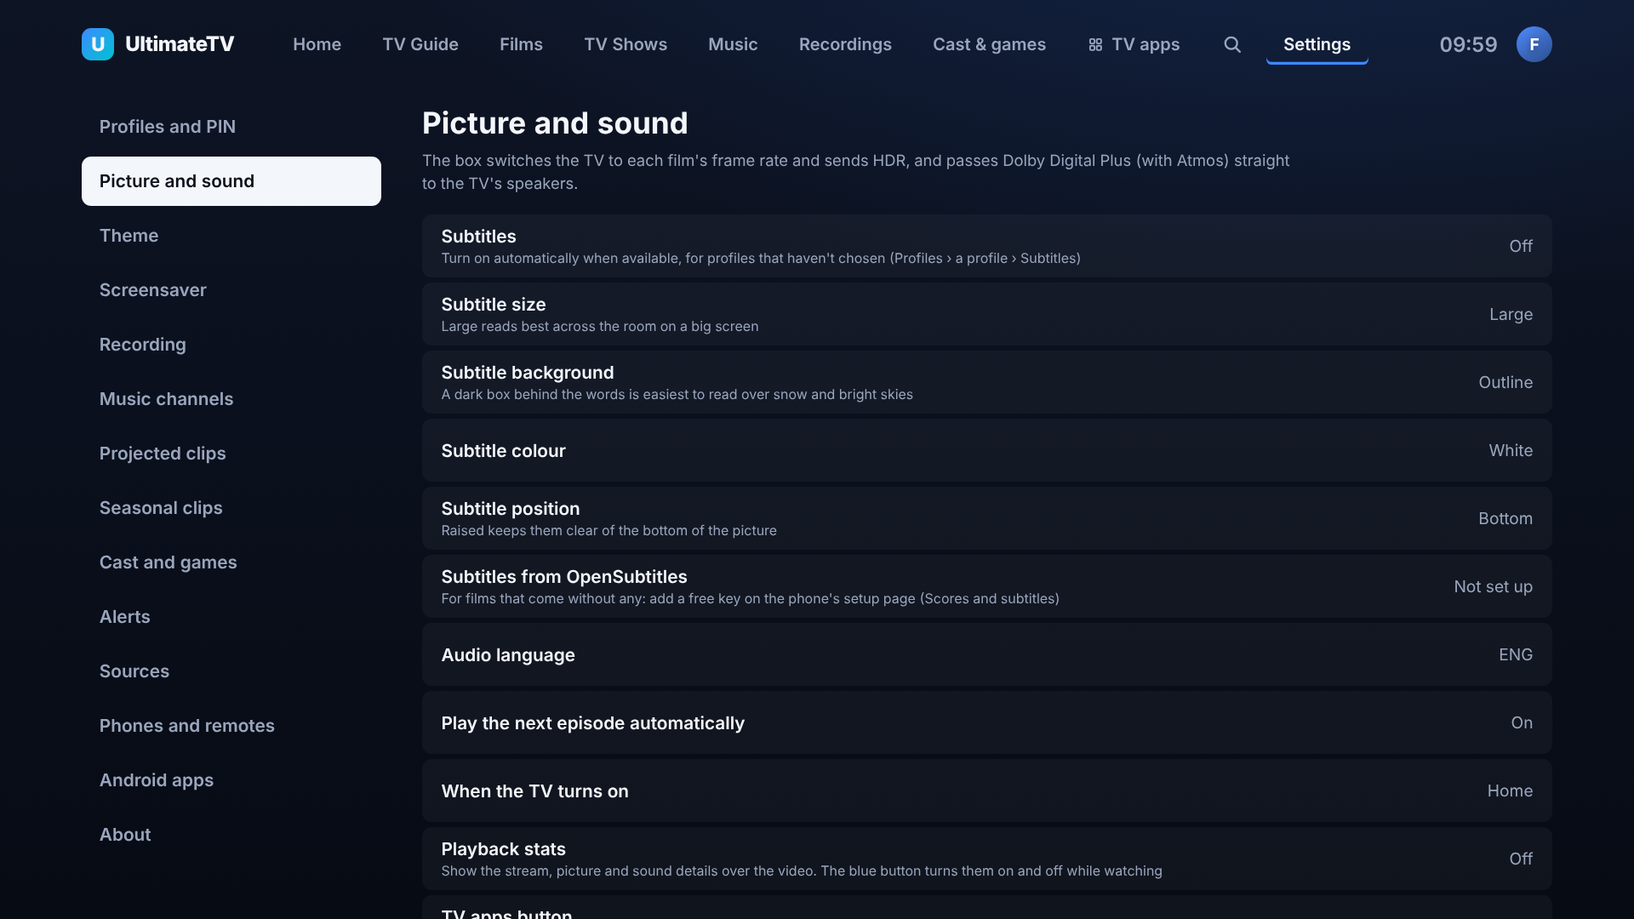
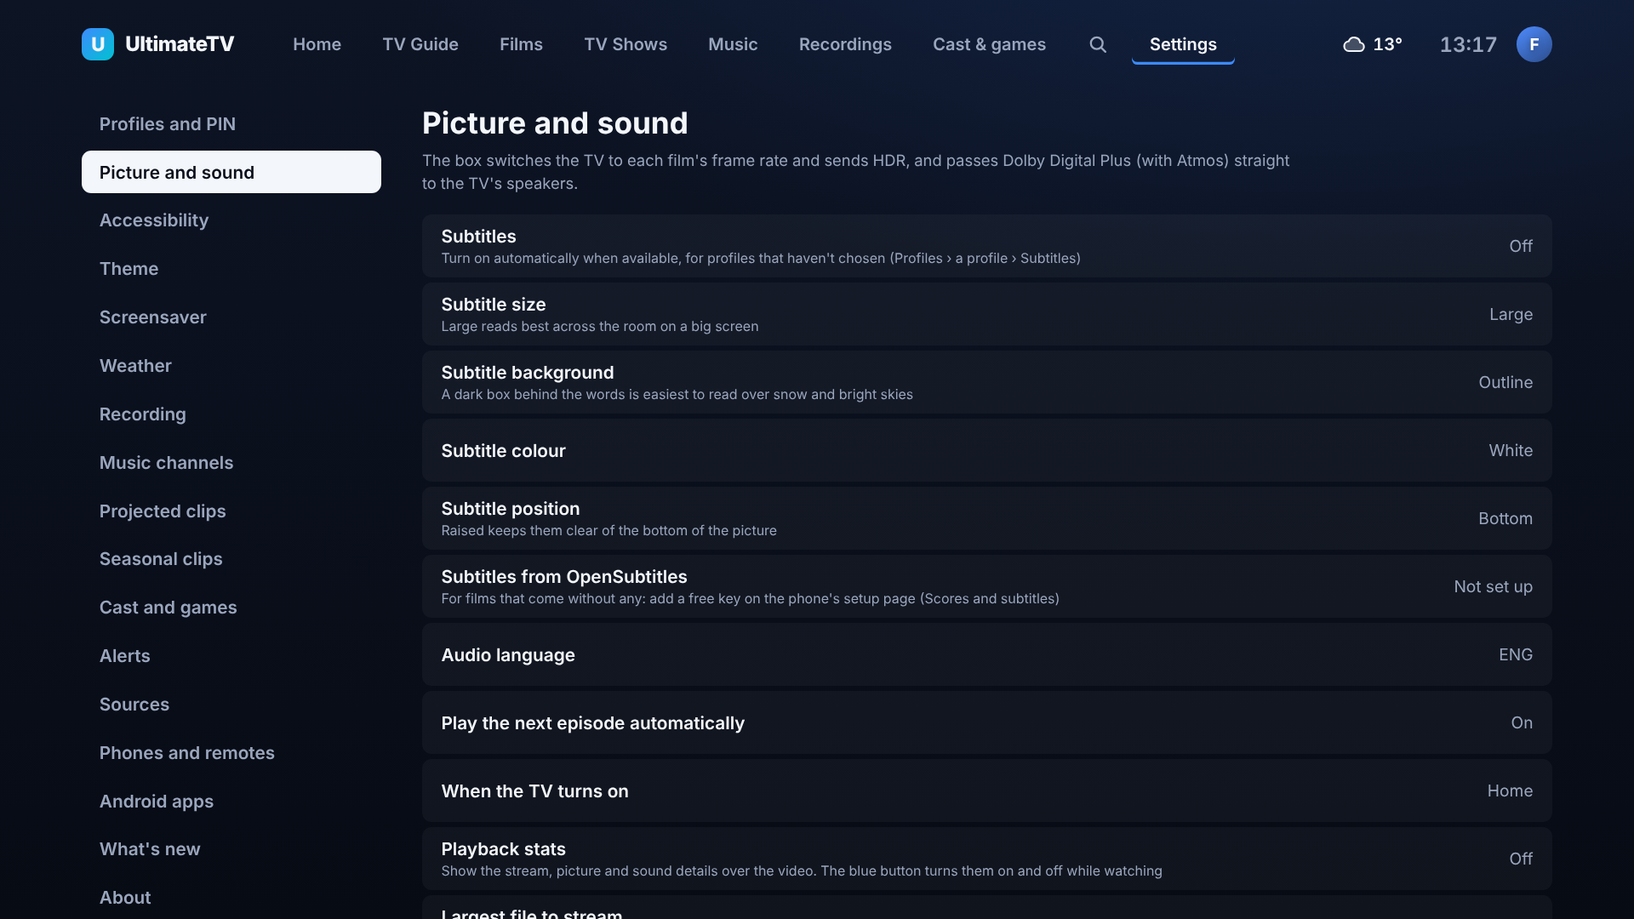
Remove the TV apps button and all of its code (#125)
The TV apps tab, its Picture and sound setting, the setup page option,
the help line, the phone remote's Cast sheet button, the box's CEC
hand-over (tvApps, tvAppsCommands, handedOver), the agent method and the
playback.tvAppsMethod setting are gone. Saved settings keep only the
playback keys the Hub still knows, so old ones holding the retired key
load as normal.

Closes #125

Claude-Session: https://claude.ai/code/session_01NwRYZnQU4XbJogak4Z4Gjz

diff --git a/box/src/cec.ts b/box/src/cec.ts
@@ -1,14 +1,12 @@
 // HDMI-CEC through cec-ctl (v4l-utils) on the Pulse-Eight adapter's /dev/cec device. The remote's
 // buttons don't come through here: the kernel turns them into key presses (see
 // tools/box/cec-keymap.toml). This side registers the box as a playback device, wakes the TV,
-// watches for the TV going to standby or switching to another input, and hands the screen back
-// to the TV's own Home (TV apps: Netflix, Disney+, Prime) when asked.
+// watches for the TV going to standby or switching to another input.
 
 import { execFile, spawn, type ChildProcess } from "node:child_process";
 import { readdir, readFile } from "node:fs/promises";
 import { createInterface } from "node:readline";
 import { promisify } from "node:util";
-import type { TvAppsMethod } from "@ultimatetv/shared";
 
 const run = promisify(execFile);
 
@@ -66,16 +64,6 @@ export function powerFrom(msg: CecMessage, ours: string | null): boolean | null 
   }
 }
 
-/** The cec-ctl calls (after `-d <device>`) that hand the screen back to the TV. */
-export function tvAppsCommands(method: TvAppsMethod, physAddr: string | null): string[][] {
-  const out: string[][] = [];
-  // <Inactive Source>: most TVs go back to their own Home or last app when the active source steps down.
-  if (method !== "home" && physAddr) out.push(["--to", "0", "--inactive-source", `phys-addr=${physAddr}`]);
-  // The TV's Home ("Root Menu") key, pressed and let go, for TVs that stay on the box's input.
-  if (method !== "inactive") out.push(["--to", "0", "--user-control-pressed", "ui-cmd=root-menu"], ["--to", "0", "--user-control-released"]);
-  return out;
-}
-
 /**
  * The HDMI physical address ("2.0.0.0") the TV gave this HDMI input, from the TV's EDID: the HDMI
  * vendor block (IEEE OUI 00-0C-03) in a CTA-861 extension. Null when the EDID has none.
@@ -124,8 +112,6 @@ export class Cec {
   private listeners = new Set<(active: boolean) => void>();
   connected = false;
   tvOn: boolean | undefined;
-  /** The box handed the screen to the TV's apps and hasn't been picked again yet (so it mustn't suspend). */
-  handedOver = false;
 
   constructor(
     private readonly device: string,
@@ -189,13 +175,9 @@ export class Cec {
     const handle = (msg: CecMessage | null) => {
       if (!msg) return;
       const active = powerFrom(msg, this.physAddr);
-      if (msg.opcode === "STANDBY") {
-        this.tvOn = false;
-        this.handedOver = false;
-      }
+      if (msg.opcode === "STANDBY") this.tvOn = false;
       if (msg.opcode === "SET_STREAM_PATH" || msg.opcode === "ACTIVE_SOURCE") this.tvOn = true;
       if (active === null) return;
-      if (active) this.handedOver = false;
       this.log(`CEC ${msg.opcode} → ${active ? "showing the box" : "not showing the box"}`);
       for (const l of this.listeners) l(active);
       // The TV asked for us: say we're the active source so it switches input and stays there.
@@ -227,21 +209,6 @@ export class Cec {
   async standby(): Promise<void> {
     if (!this.connected) return;
     await run("cec-ctl", ["-d", this.device, "--to", "0", "--standby"], { timeout: 5000 }).catch((e: Error) => this.log(e.message));
-  }
-
-  /**
-   * Gives the screen back to the TV's own Home, for its apps. Returns false when there's no CEC
-   * adapter, so the TV app can say to press Home on the TV's remote instead.
-   */
-  async tvApps(method: TvAppsMethod = "both"): Promise<boolean> {
-    if (!this.connected) return false;
-    this.handedOver = true;
-    let ok = false;
-    for (const args of tvAppsCommands(method, this.physAddr)) {
-      ok = (await run("cec-ctl", ["-d", this.device, ...args], { timeout: 5000 }).then(() => true, (e: Error) => (this.log(e.message), false))) || ok;
-    }
-    this.log(`CEC: handed the screen to the TV's apps (${method})${ok ? "" : ", but cec-ctl failed"}`);
-    return ok;
   }
 
   private async activeSource(): Promise<void> {

diff --git a/ui/src/screens/Settings.tsx b/ui/src/screens/Settings.tsx
@@ -2,8 +2,8 @@
 // source. Typing-heavy setup (logins, URLs) happens on the phone via the QR code.
 
 import { createEffect, createResource, createSignal, For, Show, type JSX } from "solid-js";
-import type { AccessibilitySettings, BoxUpdateHealth, Certification, SubtitleMode, SubtitleStyle, TvAppsMethod, ClipSeason, ClipTheme, MixChannelInfo, NasListing, PairedDevice, PendingScreen, Profile, PublicSettings, ScareSettings, ScreensaverSettings, ScreensaverThemeId, ThemeName } from "@ultimatetv/shared";
-import { cleanAccessibility, TEXT_SCALES, CERTIFICATIONS, cleanKidsLimits, KIDS_ALLOWANCES, KIDS_BEDTIMES, kidsLimitsLabel, NO_KIDS_LIMITS, CLIP_THEME_NAMES, CLIP_THEMES, clipSeasonFor, formatBytes, mixTheme, resolveTheme, SCREENSAVER_THEMES, seasonalTheme, themeInfo, THEMES, TV_APPS_METHODS, DEFAULT_SUBTITLE_STYLE } from "@ultimatetv/shared";
+import type { AccessibilitySettings, BoxUpdateHealth, Certification, SubtitleMode, SubtitleStyle, ClipSeason, ClipTheme, MixChannelInfo, NasListing, PairedDevice, PendingScreen, Profile, PublicSettings, ScareSettings, ScreensaverSettings, ScreensaverThemeId, ThemeName } from "@ultimatetv/shared";
+import { cleanAccessibility, TEXT_SCALES, CERTIFICATIONS, cleanKidsLimits, KIDS_ALLOWANCES, KIDS_BEDTIMES, kidsLimitsLabel, NO_KIDS_LIMITS, CLIP_THEME_NAMES, CLIP_THEMES, clipSeasonFor, formatBytes, mixTheme, resolveTheme, SCREENSAVER_THEMES, seasonalTheme, themeInfo, THEMES, DEFAULT_SUBTITLE_STYLE } from "@ultimatetv/shared";
 import { agent, agentHas } from "../agent";
 import { hub } from "../api";
 import { askPin, askText, choose, confirm } from "../components/Dialog";
@@ -36,7 +36,6 @@ const whenAgo = (at: number) => {
 const shortDate = (iso: string) => new Date(iso).toLocaleDateString("en-GB", { day: "numeric", month: "short", year: "numeric" });
 const SUB_LABELS: Record<SubtitleStyle["size"], string> = { small: "Small", medium: "Medium", large: "Large", huge: "Huge" };
 const MODE_LABELS: Record<SubtitleMode, string> = { off: "Off", on: "On", foreign: "Only for other languages" };
-const TV_APPS_LABELS: Record<TvAppsMethod, string> = { both: "Step down, then Home", inactive: "Step down only", home: "Press Home only" };
 const cycle = <T,>(list: readonly T[], value: T): T => list[(list.indexOf(value) + 1) % list.length]!;
 
 export function Settings(props: { section?: string }) {
@@ -630,12 +629,6 @@ export function Settings(props: { section?: string }) {
               <Row label="Play the next episode automatically" value={playback().autoplayNext ? "On" : "Off"} onSelect={() => void save({ playback: { ...playback(), autoplayNext: !playback().autoplayNext } })} />
               <Row label="When the TV turns on" value={playback().startOn === "live" ? "Live TV" : "Home"} onSelect={() => void save({ playback: { ...playback(), startOn: playback().startOn === "live" ? "home" : "live" } })} />
               <Row label="Playback stats" hint="Show the stream, picture and sound details over the video. The blue button turns them on and off while watching" value={showStats() ? "On" : "Off"} onSelect={() => setShowStats(!showStats())} />
-              <Row
-                label="TV apps button"
-                hint="How the box hands the screen to the TV's own apps over HDMI-CEC. Try another if the TV stays on this app"
-                value={TV_APPS_LABELS[playback().tvAppsMethod ?? "both"]}
-                onSelect={() => void save({ playback: { ...playback(), tvAppsMethod: cycle(TV_APPS_METHODS, playback().tvAppsMethod ?? "both") } })}
-              />
               <Row label="Largest file to stream" hint="Bigger versions are moved down the list" value={`${playback().maxSizeGb} GB`} onSelect={() => void save({ playback: { ...playback(), maxSizeGb: cycle([20, 40, 60, 100], playback().maxSizeGb) } })} />
             </Show>
 

diff --git a/hub/src/server.ts b/hub/src/server.ts
@@ -23,7 +23,7 @@ import { movedAway, registerMove } from "./move.js";
 import { Backups, registerBackups } from "./backup.js";
 import { ChangelogFile, registerChangelog } from "./changelog.js";
 import type { AccessibilitySettings, BoxState, DeviceList, NewsFlash, PairedDevice, TvMethod, WebAppLoginResult, Certification, Channel, ChannelCategory, GuideChoices, GuideWindow, HubStatus, IptvSource, MixChannel, PlaybackRequest, ProfileKind, ProgrammeMark, Settings, SubtitleMode, TitleRef } from "@ultimatetv/shared";
-import { cleanAppName, cleanSubtitleStyle, TV_APPS_METHODS, cleanLook, resolveTheme, THEMES, cleanScreensaver, renderMatrix, SCREENSAVER_THEMES, THEME_CHOICES, type ScreensaverInfo, validateReport, type ProbeReport } from "@ultimatetv/shared";
+import { cleanAppName, cleanSubtitleStyle, cleanLook, resolveTheme, THEMES, cleanScreensaver, renderMatrix, SCREENSAVER_THEMES, THEME_CHOICES, type ScreensaverInfo, validateReport, type ProbeReport } from "@ultimatetv/shared";
 import { listClips } from "./clips.js";
 import { guideBlocks, mixLogo } from "./mixchannels.js";
 import type { HubConfig } from "./config.js";
@@ -81,7 +81,7 @@ export async function buildServer(config: HubConfig, deps: ServerDeps = {}): Pro
   const getSystem = deps.systemReport ?? systemReport;
   app.addHook("onClose", async () => ctx.close());
 
-  /** TV apps listening on the event socket: the phone's box controls need one. */
+  /** TV app clients listening on the event socket: the phone's box controls need one. */
   let tvSockets = 0;
   const deviceSockets = new Map<string, Set<{ close(code?: number, reason?: string): void }>>();
   const hubBase = (req: FastifyRequest) => config.publicUrl ?? `${req.protocol}://${req.headers.host ?? `${req.hostname}:${config.port}`}`;
@@ -448,7 +448,7 @@ export async function buildServer(config: HubConfig, deps: ServerDeps = {}): Pro
     if (body.recording) patch.recording = { ...s.recording, ...body.recording };
     if (body.playback) {
       const b = body.playback;
-      patch.playback = { ...s.playback, ...b, subtitleStyle: cleanSubtitleStyle(b.subtitleStyle, s.playback.subtitleStyle), tvAppsMethod: TV_APPS_METHODS.includes(b.tvAppsMethod) ? b.tvAppsMethod : s.playback.tvAppsMethod };
+      patch.playback = { ...s.playback, ...b, subtitleStyle: cleanSubtitleStyle(b.subtitleStyle, s.playback.subtitleStyle) };
     }
     if (body.numbering) patch.numbering = body.numbering;
     if (body.appName !== undefined) patch.appName = cleanAppName(body.appName);
@@ -790,7 +790,7 @@ export async function buildServer(config: HubConfig, deps: ServerDeps = {}): Pro
   });
 
   // The phone asks the TV app (what's playing, play this, seek, music); the TV answers at /api/tv/reply/:id.
-  const TV_METHODS = new Set<TvMethod>(["now", "play", "seek", "track", "tvApps", "musicLibrary", "musicTracks", "musicPlay", "musicControl", "downloads", "download", "downloadRemove", "musicStatus", "musicSetup", "saveToNas", "sleep", "cast", "castApp", "castAirplay"]);
+  const TV_METHODS = new Set<TvMethod>(["now", "play", "seek", "track", "musicLibrary", "musicTracks", "musicPlay", "musicControl", "downloads", "download", "downloadRemove", "musicStatus", "musicSetup", "saveToNas", "sleep", "cast", "castApp", "castAirplay"]);
   /** Asks the TV app something and waits for its answer (12 s at most). */
   const callTv = (method: TvMethod, args: unknown) =>
     new Promise<{ result?: unknown; error?: string }>((resolve) => {

diff --git a/hub/test/extras.titles.test.ts b/hub/test/extras.titles.test.ts
@@ -164,15 +164,16 @@ describe("in the demo Hub", () => {
     expect((await app.inject("/api/subtitles/files/..%2Fhub.db")).statusCode).toBe(404);
   });
 
-  it("saves subtitle style, the TV apps method and OpenSubtitles without showing the password", async () => {
-    const s = (await app.inject({ method: "PUT", url: "/api/settings", payload: { playback: { subtitleStyle: { size: "huge", colour: "purple" }, tvAppsMethod: "home" }, omdbApiKey: "abc", openSubtitles: { apiKey: "os", username: "gary", password: "secret" } } })).json<PublicSettings>();
+  it("saves subtitle style and OpenSubtitles without showing the password", async () => {
+    const s = (await app.inject({ method: "PUT", url: "/api/settings", payload: { playback: { subtitleStyle: { size: "huge", colour: "purple" } }, omdbApiKey: "abc", openSubtitles: { apiKey: "os", username: "gary", password: "secret" } } })).json<PublicSettings>();
     expect(s.playback.subtitleStyle).toEqual({ ...DEFAULT_SUBTITLE_STYLE, size: "huge" });
-    expect(s.playback.tvAppsMethod).toBe("home");
     expect(s.omdb).toBe(true);
     expect(s.openSubtitles).toEqual({ configured: true, signedIn: true });
     expect(JSON.stringify(s)).not.toContain("secret");
-    const bad = (await app.inject({ method: "PUT", url: "/api/settings", payload: { playback: { tvAppsMethod: "explode" } } })).json<PublicSettings>();
-    expect(bad.playback.tvAppsMethod).toBe("home");
+    // Keys the playback settings no longer have (a retired setting sent by an old app) are dropped.
+    const old = (await app.inject({ method: "PUT", url: "/api/settings", payload: { playback: { retiredSetting: "home" } } })).json<PublicSettings>();
+    expect(old.playback).not.toHaveProperty("retiredSetting");
+    expect(old.playback.subtitleStyle.size).toBe("huge");
     // A new key alone keeps the login.
     const again = (await app.inject({ method: "PUT", url: "/api/settings", payload: { openSubtitles: { apiKey: "os2" } } })).json<PublicSettings>();
     expect(again.openSubtitles).toEqual({ configured: true, signedIn: true });

diff --git a/shared/src/domain.ts b/shared/src/domain.ts
@@ -1,7 +1,7 @@
 // Domain model shared by the Hub, the TV UI and the box shell.
 // Times are epoch milliseconds (UTC) everywhere; the UI formats them in local time.
 
-import type { BoxInfo, BoxSoftware, PlaybackStats, PlayerState, SubtitleMode, SubtitleStyle, TvAppsMethod } from "./agent.js";
+import type { BoxInfo, BoxSoftware, PlaybackStats, PlayerState, SubtitleMode, SubtitleStyle } from "./agent.js";
 import type { SpotifyState, WebAppState } from "./music.js";
 import type { ScreensaverSettings } from "./screensaver.js";
 import type { CastLink, ShareOffer } from "./cast.js";
@@ -642,8 +642,6 @@ export interface Settings {
     avoidDvProfile5: boolean;
     autoplayNext: boolean;
     startOn: "home" | "live";
-    /** How the TV apps button hands the screen back to the TV (see TvAppsMethod). */
-    tvAppsMethod: TvAppsMethod;
     /** How subtitles look on the TV, for everyone. Whether they come on is per profile. */
     subtitleStyle: SubtitleStyle;
   };
@@ -844,7 +842,7 @@ export interface BoxState {
 // The phone remote: what the TV is doing, and machine stats
 
 /** What the phone can ask the TV app to do, through the Hub (POST /api/tv/call/:method). */
-export type TvMethod = "now" | "play" | "seek" | "track" | "tvApps" | "musicLibrary" | "musicTracks" | "musicPlay" | "musicControl" | "downloads" | "download" | "downloadRemove" | "musicStatus" | "musicSetup" | "saveToNas" | "sleep" | "cast" | "castApp" | "castAirplay" | "ha";
+export type TvMethod = "now" | "play" | "seek" | "track" | "musicLibrary" | "musicTracks" | "musicPlay" | "musicControl" | "downloads" | "download" | "downloadRemove" | "musicStatus" | "musicSetup" | "saveToNas" | "sleep" | "cast" | "castApp" | "castAirplay" | "ha";
 
 /** What the TV shows and plays, for the phone's Now Playing card and Stats page. */
 export interface TvNow {

diff --git a/shared/src/agent.ts b/shared/src/agent.ts
@@ -70,12 +70,6 @@ export interface PlayOptions {
   crops?: string[];
 }
 
-/**
- * How the box hands the screen back to the TV for its own apps (Netflix, Disney+, Prime): say over
- * CEC that it's no longer the source, press the TV's Home key for it, or both (the default).
- */
-export type TvAppsMethod = "inactive" | "home" | "both";
-
 /** How subtitles look on the TV (mpv's sub-scale, sub-color, sub-border-style and sub-pos). */
 export interface SubtitleStyle {
   size: "small" | "medium" | "large" | "huge";
@@ -104,7 +98,6 @@ export function cleanSubtitleStyle(input: unknown, base: SubtitleStyle = DEFAULT
 }
 
 export const SUBTITLE_MODES: SubtitleMode[] = ["off", "on", "foreign"];
-export const TV_APPS_METHODS: TvAppsMethod[] = ["both", "inactive", "home"];
 
 /** When subtitles come on: never, always, or only for speech in another language (and forced ones). */
 export type SubtitleMode = "off" | "on" | "foreign";
@@ -362,9 +355,7 @@ export interface BoxAgent {
   /** The player's volume, 0–100 (for fading out). */
   setVolume(percent: number): Promise<void>;
 
-  // TV apps and subtitles. Older box shells lack these: check with agentHas first.
-  /** Hands the screen back to the TV's own Home over CEC; false when there's no CEC adapter. */
-  tvApps(method?: TvAppsMethod): Promise<boolean>;
+  // Subtitles. Older box shells lack these: check with agentHas first.
   /** Adds a subtitle file (one fetched from OpenSubtitles) to what's playing, and shows it. */
   addSubtitle(sub: { url: string; lang: string; label: string }): Promise<void>;
   setSubtitleStyle(style: SubtitleStyle): Promise<void>;

diff --git a/hub/public/setup/index.html b/hub/public/setup/index.html
@@ -219,7 +219,6 @@
     <label class="opt"><span>Subtitle background<small>A dark box is easiest to read over bright scenes</small></span><select data-sub="background"><option value="outline">Outline</option><option value="box">Dark box</option></select></label>
     <label class="opt"><span>Subtitle colour</span><select data-sub="colour"><option value="white">White</option><option value="yellow">Yellow</option></select></label>
     <label class="opt"><span>Subtitle position</span><select data-sub="position"><option value="bottom">Bottom</option><option value="raised">Raised</option></select></label>
-    <label class="opt"><span>TV apps button<small>How the box hands the screen to the TV's own apps. Try another if the TV stays on this app</small></span><select data-pb="tvAppsMethod"><option value="both">Step down, then Home</option><option value="inactive">Step down only</option><option value="home">Press Home only</option></select></label>
     <label class="opt"><span>Play the next episode automatically</span><input type="checkbox" data-pb="autoplayNext"></label>
     <label class="opt"><span>When the TV turns on</span><select data-pb="startOn"><option value="home">Home</option><option value="live">Live TV</option></select></label>
     <label class="opt"><span>Largest file to stream<small>Bigger versions are moved down the list</small></span><select data-pb="maxSizeGb" data-number><option value="20">20 GB</option><option value="40">40 GB</option><option value="60">60 GB</option><option value="100">100 GB</option></select></label>

diff --git a/hub/public/remote/phone.js b/hub/public/remote/phone.js
@@ -559,8 +559,6 @@
     const air = st?.airplay;
     openSheet(`<h2>Cast to the TV</h2>
       ${fg ? `<div class="actions"><button class="primary" id="ca-back">Back to the TV app (close ${esc(fg.name)})</button></div>` : ""}
-      <h3>Netflix, Prime and the TV's other apps</h3>
-      <div class="actions"><button id="ca-tvapps">Go to the TV's apps</button></div>
       <h3>Play a link</h3>
       <p class="meta">A YouTube video, or a link to a video file or stream.</p>
       <input class="field" id="ca-url" type="url" placeholder="https://…" autocomplete="off" value="${esc(shared?.url ?? "")}">
@@ -582,7 +580,6 @@
         toast("Long-press the box and choose Paste", true);
       }
     };
-    $("ca-tvapps").onclick = () => void call("tvApps").then((r) => (closeSheet(), toast(r?.ok ? "Over to the TV's apps. Input on the TV remote comes back" : "Press Home on the TV remote")), (e) => toast(e.message, true));
     $("ca-photo").onclick = () => $("ca-file").click();
     $("ca-file").onchange = (e) => {
       const f = e.target.files[0];
@@ -1380,7 +1377,7 @@
   }
 
   // Signing in to Spotify and Deezer on the TV, from the phone: the first thing the Music page shows
-  // until both are done (TV apps from before musicStatus show the library straight away).
+  // until both are done (TV app versions from before musicStatus show the library straight away).
   function musicSetupHtml(st) {
     const sp = st.spotify || {};
     const name = esc(sp.deviceName || "the TV");

diff --git a/hub/src/settings.ts b/hub/src/settings.ts
@@ -30,7 +30,6 @@ export function defaultSettings(mediaRoot = "/mnt/nas"): Settings {
       avoidDvProfile5: true,
       autoplayNext: true,
       startOn: "home",
-      tvAppsMethod: "both",
       subtitleStyle: { ...DEFAULT_SUBTITLE_STYLE },
     },
     numbering: "uk",
@@ -138,13 +137,18 @@ export function dedupeSources(sources: IptvSource[]): IptvSource[] {
   });
 }
 
+/** Only the keys `shape` has: settings saved by older versions can hold ones that were since retired. */
+function knownKeys<T extends object>(shape: T, value: T): T {
+  return Object.fromEntries(Object.entries(value).filter(([k]) => k in shape)) as T;
+}
+
 function mergeSettings(base: Settings, patch: Partial<Settings>): Settings {
   return {
     ...base,
     ...patch,
     library: { ...base.library, ...patch.library },
     recording: { ...base.recording, ...patch.recording },
-    playback: { ...base.playback, ...patch.playback },
+    playback: knownKeys(base.playback, { ...base.playback, ...patch.playback }),
     screensaver: { ...base.screensaver, ...patch.screensaver },
   };
 }

diff --git a/ui/src/phone.ts b/ui/src/phone.ts
@@ -14,7 +14,6 @@ import { channels, liveChannelId, nowPlaying, play, playerState } from "./player
 import { saveEpisodes, saveToNas } from "./save";
 import { sleep, setSleep } from "./sleep";
 import { isKids, nav, profile } from "./store";
-import { openTvApps } from "./tvapps";
 
 /** What the phone's "On the TV box" list shows: no pictures (they're data: URLs on the box), just links to them. */
 async function downloadsForPhone() {
@@ -130,7 +129,6 @@ const handlers: Record<TvMethod, (args: never) => Promise<unknown>> = {
     return { ok: true };
   },
   // The phone's Cast sheet: over to the TV's own apps (Netflix and the rest).
-  tvApps: async () => ({ ok: await openTvApps(false) }),
   musicLibrary: async (a: { kind: "playlists" | "albums" | "artists"; offset?: number }) => music().spotifyLibrary(a.kind, a.offset ?? 0),
   musicTracks: async (a: { uri: string }) => music().spotifyTracks(a.uri),
   musicPlay: async (a: { uri: string; skipTo?: string; shuffle?: boolean }) => {

diff --git a/box/src/main.ts b/box/src/main.ts
@@ -271,8 +271,7 @@ async function main(): Promise<void> {
   cec.onPower((active) => {
     send("agent:power", active);
     clearTimeout(suspendTimer);
-    // Not while the TV shows its own apps: the box has to answer when it's picked again.
-    if (!active && process.env.SUSPEND_WHEN_TV_OFF === "1" && !cec.handedOver) {
+    if (!active && process.env.SUSPEND_WHEN_TV_OFF === "1") {
       suspendTimer = setTimeout(() => {
         log("TV is off: suspending");
         execFile("systemctl", ["suspend"], (e) => e && log(`Suspend failed: ${e.message}`));
@@ -333,7 +332,6 @@ async function main(): Promise<void> {
     launchApp: (id: never) => cast.launch(id),
     stopApp: () => cast.stopForeground(),
     tvStandby: () => cec.standby(),
-    tvApps: (method: never) => cec.tvApps(method),
     addSubtitle: (sub: never) => player.addSubtitle(sub),
     setSubtitleStyle: (style: never) => player.setSubtitleStyle(style),
     setVolume: (pct: never) => player.setVolume(pct),

diff --git a/ui/src/components/TopBar.tsx b/ui/src/components/TopBar.tsx
@@ -5,7 +5,6 @@ import { clockTime, formatTemp } from "@ultimatetv/shared";
 import { castSettings } from "../cast";
 import { visibleDownloads } from "../downloads";
 import { sleep } from "../sleep";
-import { openTvApps } from "../tvapps";
 import { appName, isKids, nav, now, profile, type Route } from "../store";
 import { weather } from "../weather";
 import { Icon } from "./Icon";
@@ -48,10 +47,6 @@ export function TopBar() {
             </button>
           )}
         </For>
-        {/* Netflix, Prime and the rest are the TV's own: this hands the screen back to it. */}
-        <button class="tab tab-apps" data-focus onClick={() => void openTvApps()}>
-          <Icon name="apps" /> TV apps
-        </button>
         <button class="tab tab-icon" classList={{ active: nav.current().name === "search" }} data-focus aria-label="Search" onClick={() => nav.current().name !== "search" && nav.replace({ name: "search" })}>
           <Icon name="search" />
         </button>
